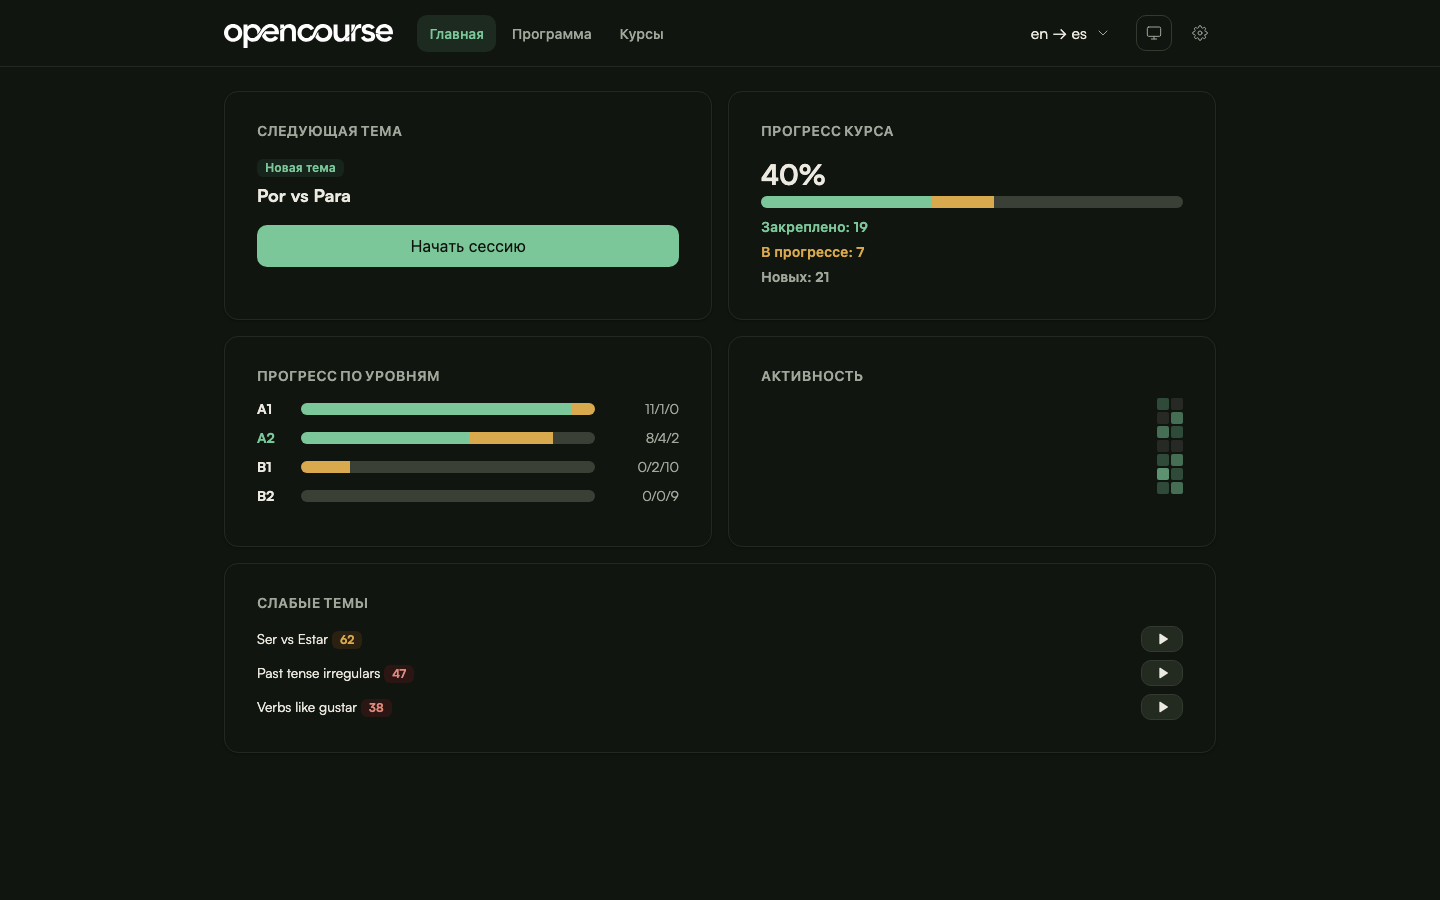
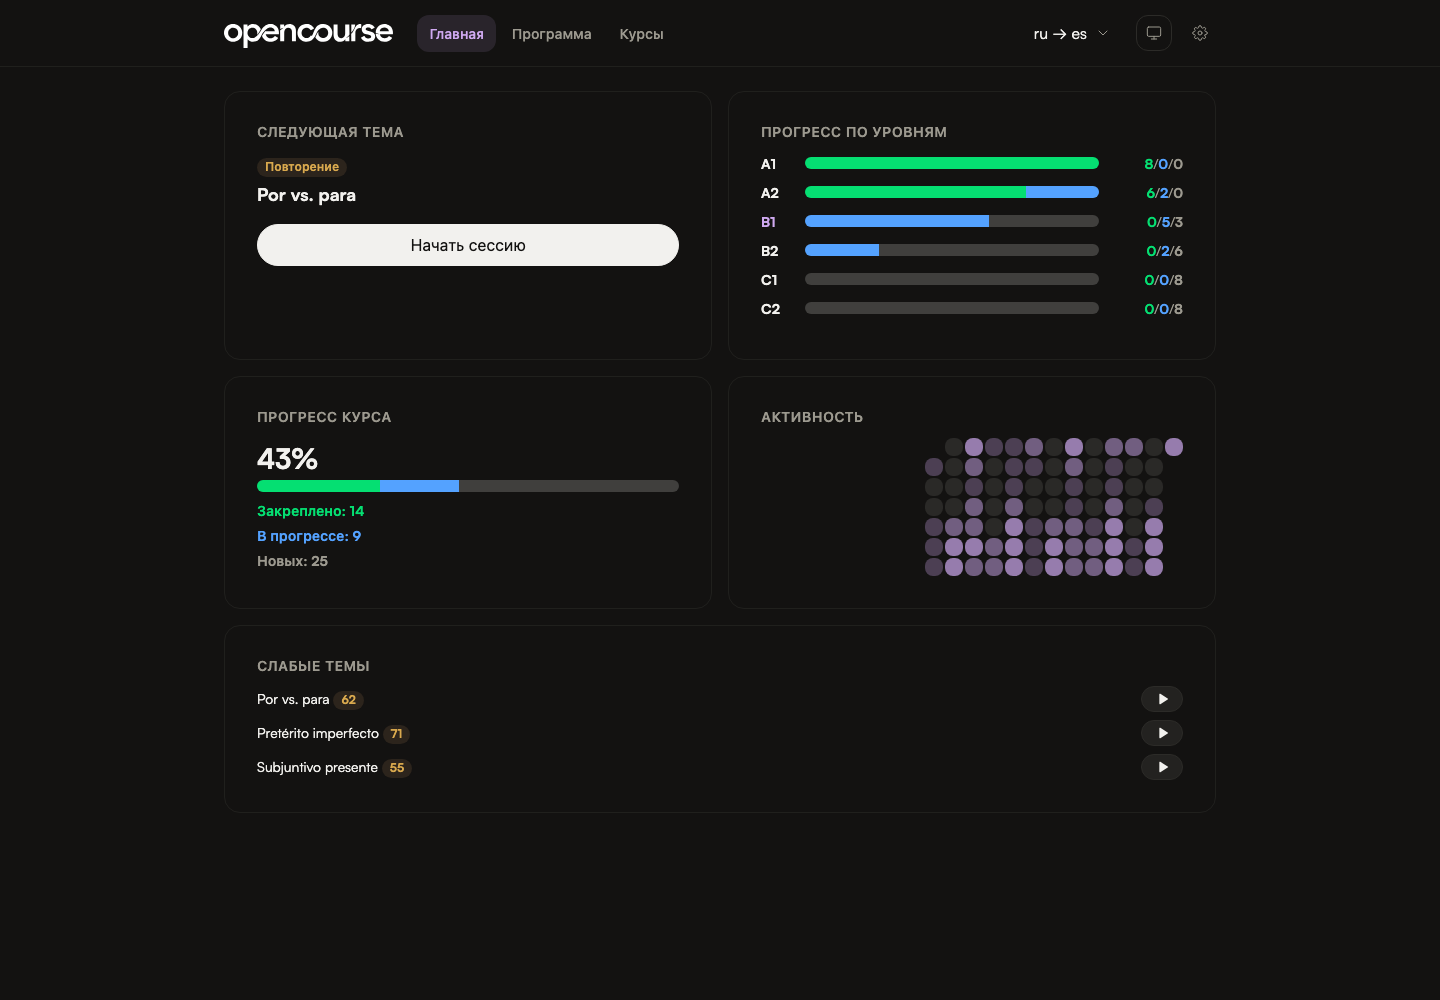
feat: demos inside way cards, responsive hero scale, fresh app screenshots

diff --git a/overrides/home.html b/overrides/home.html
@@ -20,21 +20,25 @@
     </div>
   </section>
 
-  <section class="lp-proof">
-    <div class="lp-proof__head">
-      <h2 class="lp-h2">See every mistake become the next exercise</h2>
-      <p class="lp-section-sub">Real screens, real session. The web app tracks your CEFR progress while the CLI drills translations and explains each slip.</p>
-    </div>
-    <div class="lp-proof__grid">
-      <figure class="lp-frame lp-frame--browser">
-        <div class="lp-frame__bar">
-          <span class="lp-frame__dot"></span><span class="lp-frame__dot"></span><span class="lp-frame__dot"></span>
-          <span class="lp-frame__url">app.open-course.eu</span>
-        </div>
-        <img class="lp-shot lp-shot--light" src="assets/app-dashboard-light.png" alt="Open Course web app dashboard with CEFR progress and activity history" loading="lazy" />
-        <img class="lp-shot lp-shot--dark" src="assets/app-dashboard-dark.png" alt="Open Course web app dashboard with CEFR progress and activity history" loading="lazy" />
-      </figure>
-      <div class="lp-frame lp-frame--term">
+  <section class="lp-ways" id="cli">
+    <h2 class="lp-h2">Two ways in, one progress</h2>
+    <div class="lp-ways__grid">
+      <article class="lp-card">
+        <h3>Web app</h3>
+        <p>Open app.open-course.eu and practice in the browser. Dashboard, CEFR progress, and activity history. Nothing to install.</p>
+        <figure class="lp-frame lp-frame--browser">
+          <div class="lp-frame__bar">
+            <span class="lp-frame__dot"></span><span class="lp-frame__dot"></span><span class="lp-frame__dot"></span>
+            <span class="lp-frame__url">app.open-course.eu</span>
+          </div>
+          <img class="lp-shot lp-shot--light" src="assets/app-dashboard-light.png" alt="Open Course web app dashboard with CEFR progress and activity history" loading="lazy" />
+          <img class="lp-shot lp-shot--dark" src="assets/app-dashboard-dark.png" alt="Open Course web app dashboard with CEFR progress and activity history" loading="lazy" />
+        </figure>
+        <a class="lp-link" href="https://app.open-course.eu">Open app.open-course.eu</a>
+      </article>
+      <article class="lp-card">
+        <h3>CLI</h3>
+        <p>Terminal-first and local-first. Bring your own API key, or run fully local models with Ollama.</p>
         <div class="term-demo" aria-label="Animated session demo">
           <div class="term-demo__bar">
             <span class="term-demo__dot term-demo__dot--r"></span>
@@ -44,21 +48,6 @@
           </div>
           <div class="term-demo__screen" id="term-demo-screen" aria-live="polite"></div>
         </div>
-      </div>
-    </div>
-  </section>
-
-  <section class="lp-ways" id="cli">
-    <h2 class="lp-h2">Two ways in, one progress</h2>
-    <div class="lp-ways__grid">
-      <article class="lp-card">
-        <h3>Web app</h3>
-        <p>Open app.open-course.eu and practice in the browser. Dashboard, CEFR progress, and activity history. Nothing to install.</p>
-        <a class="lp-link" href="https://app.open-course.eu">Open app.open-course.eu</a>
-      </article>
-      <article class="lp-card">
-        <h3>CLI</h3>
-        <p>Terminal-first and local-first. Bring your own API key, or run fully local models with Ollama.</p>
         <div class="hero-install">
           <div class="hero-install-inner">
             <code id="install-cmd">curl --proto '=https' --tlsv1.2 -LsSf https://github.com/scriptology/open-course-cli/releases/latest/download/opencourse-installer.sh | sh</code>

diff --git a/docs/stylesheets/extra.css b/docs/stylesheets/extra.css
@@ -290,9 +290,11 @@ body {
   box-shadow: none !important;
 }
 
-.lp-h1 {
+/* .md-typeset h1/h2 carry (0,1,1) specificity from the theme, so the
+   landing heading rules need an extra class to win the cascade. */
+.md-typeset .lp-h1 {
   margin: 0 0 0.75rem;
-  font-size: clamp(2.75rem, 6vw, 4.25rem);
+  font-size: clamp(2.75rem, 8vw, 6rem);
   font-weight: 500;
   letter-spacing: -0.025em;
   line-height: 1.1;
@@ -327,7 +329,7 @@ body {
   display: flex;
   align-items: center;
   justify-content: space-between;
-  padding: 1.25rem 0 0;
+  padding: 0;
 }
 
 .lp-topbar__home {
@@ -441,20 +443,11 @@ body {
   transform: translate(2px, -2px);
 }
 
-/* Product proof: asymmetric split, frames on white with hairline borders */
-.lp-proof__head {
-  margin-bottom: 2.5rem;
-}
-
-.lp-proof__grid {
-  display: grid;
-  grid-template-columns: 1fr 1fr;
-  gap: 1.75rem;
-  align-items: start;
-}
-
-.lp-frame {
+/* Demo frames on white with hairline borders */
+.md-typeset .lp-frame {
   margin: 0;
+  width: auto;
+  text-align: left;
   padding: 6px;
   border: 1px solid var(--oc-border);
   border-radius: var(--oc-radius-l);
@@ -501,14 +494,18 @@ body {
   display: block;
 }
 
-/* Desktop: browser shot fills the frame to the terminal's fixed height
-   so the two demo frames read as an equal pair */
-@media (min-width: 769px) {
-  .md-typeset .lp-shot {
-    height: 24rem;
-    object-fit: cover;
-    object-position: top center;
-  }
+/* Inside the way cards the demos are small equal-height previews */
+.lp-card .term-demo__screen {
+  height: 14rem;
+  min-height: 14rem;
+  max-height: 14rem;
+  font-size: 0.66rem;
+}
+
+.lp-card .lp-shot {
+  height: 14rem;
+  object-fit: cover;
+  object-position: top center;
 }
 
 /* Terminal demo (theme-aware paper terminal) */
@@ -982,11 +979,17 @@ body {
     padding: 2rem 0 0;
   }
 
-  .lp-h1 {
+  .md-typeset .lp-h1 {
     font-size: 2.75rem;
+    padding-inline: 1rem;
   }
 
-  .lp-proof__grid,
+  .lp-sub {
+    font-size: 0.95rem;
+    line-height: 1.5;
+    padding-inline: 1rem;
+  }
+
   .lp-ways__grid {
     grid-template-columns: 1fr;
   }
@@ -995,13 +998,6 @@ body {
   .lp-bcell--span5,
   .lp-bcell--span4 {
     grid-column: span 12;
-  }
-
-  .term-demo__screen {
-    height: 21rem;
-    min-height: 21rem;
-    max-height: 21rem;
-    font-size: 0.68rem;
   }
 
   .term-demo .t-progress-label {
